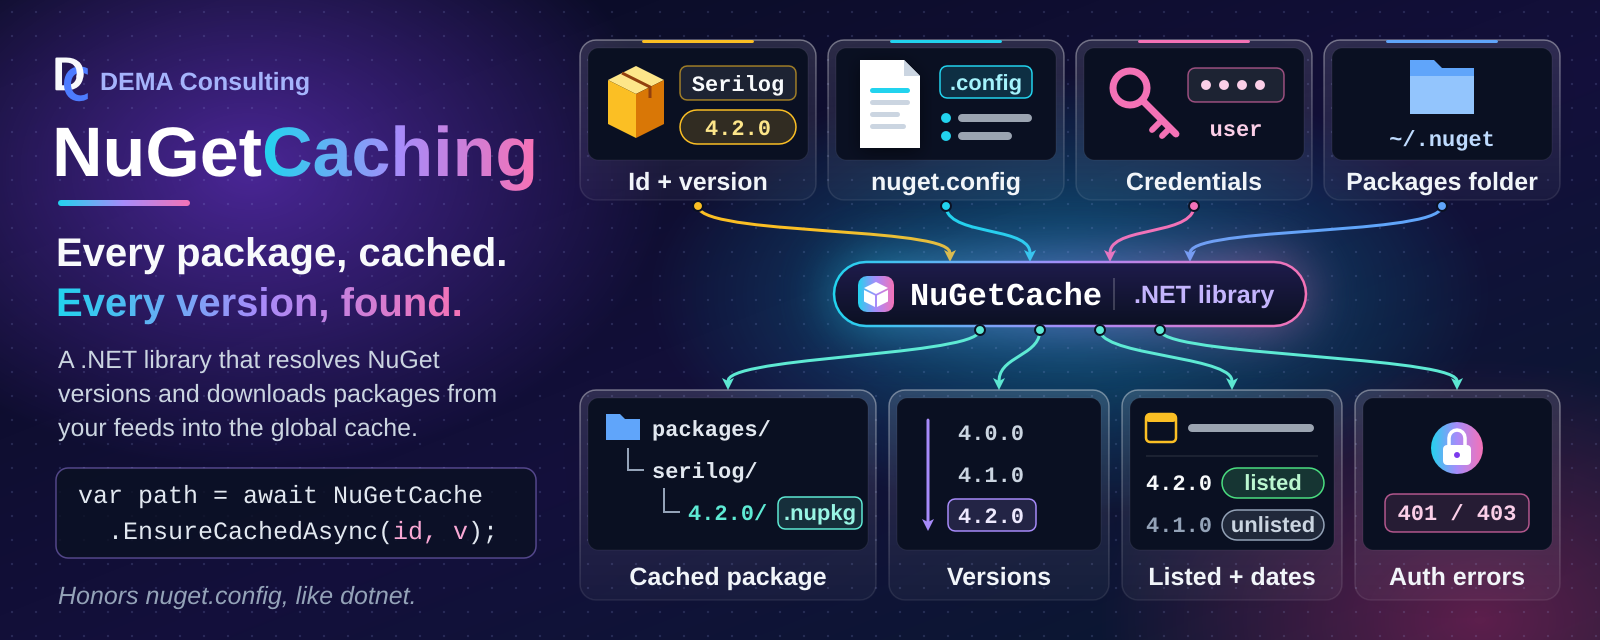
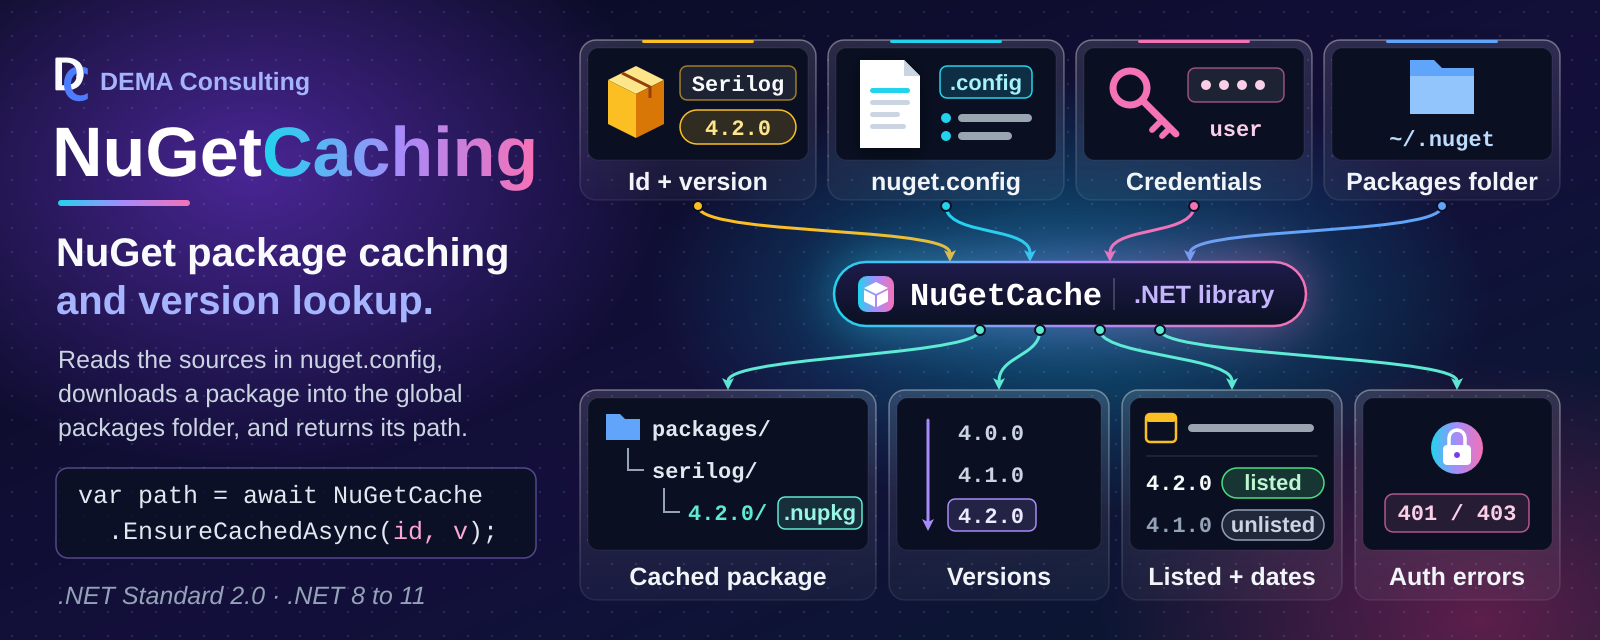
Sync agents/template and calm the README hero (#106)
* Sync shared agents, skills, and standards from Agents main

Copy .github/agents, skills, and standards from Agents origin/main (#60, #62, #64)
and apply the AGENTS.md changes: fix.ps1/lint.ps1 are no longer protected, add the
Project Scripts section, and add the project-tagline field.

* Sync template: yamlfix comment rule and script customization headers

- .yamlfix.toml: comments_require_starting_space = false (template #61)
- build.ps1, lint.ps1, fix.ps1: CUSTOMIZATION header replaces the old
  MODIFICATION POLICY text (template #63); comment-only change

* Calm the README hero and make it the H1

Replace the slogan tagline with a plain statement, make the body factual, and
use the targets as the footnote. The hero image is now the README H1, with the
badges directly under it (template #66).

* Record the legacy SysML2 package layout as a standards exception

* README: keep the hero H1 alt text to the name and tagline

The hero image is the H1, so its alt text is the page title for screen readers; the details are in the README text below.

---------

diff --git a/.github/standards/sysml2-modeling.md b/.github/standards/sysml2-modeling.md
@@ -31,15 +31,15 @@ docs/sysml2/
 ├── common/
 │   └── software-items.sysml           # shared SoftwareItemMetadata::SoftwareInfo metadata def
 ├── model/
-│   ├── {system-name}.sysml            # system-level part def only (no subsystems/units inline)
+│   ├── {system-name}.sysml            # package {SystemName}; system-level part def only (no subsystems/units inline)
 │   ├── {system-name}/
-│   │   ├── {subsystem-name}.sysml     # subsystem part def; nests further for sub-subsystems
+│   │   ├── {subsystem-name}.sysml     # package {SystemName}_{SubsystemName}Subsystem; nests further for sub-subsystems
 │   │   └── {subsystem-name}/
-│   │       └── {unit-name}.sysml      # one file per unit
-│   ├── ots.sysml                      # OTS dependency parts (optional; if OTS items exist)
-│   └── shared.sysml                   # Shared Package parts (optional; if Shared Packages exist)
+│   │       └── {unit-name}.sysml      # package {SystemName}_{UnitName}; one file per unit
+│   ├── ots.sysml                      # package OtsDependencies: OTS parts (optional; if OTS items exist)
+│   └── shared.sysml                   # package SharedPackages: Shared Package parts (optional; if Shared Packages exist)
 └── views/
-    └── design-views.sysml             # named view usages rendered for the design document
+    └── design-views.sysml             # package {RepoName}DesignViews; named view usages rendered for the design document
 ```
 
 `docs/sysml2/common/software-items.sysml` defines the `SoftwareItemMetadata::SoftwareInfo`
@@ -62,14 +62,42 @@ so no single alias name would generalize. Agents discover the system(s) present 
 `docs/sysml2/**/*.sysml`, not by assuming a fixed name.
 
 Always pass the full set of `.sysml` files (or an equivalent glob) to every `sysml2tools`
-invocation — the model spans multiple files and cross-references between them; files sharing
-the same `package Name { ... }` merge into one namespace automatically with no `import`
-required, as long as all files are passed together. As of `sysml2tools` 0.1.0-beta.5,
+invocation — the model spans multiple files and cross-references between them, and a
+reference only resolves when the file declaring its target is loaded (see Package Structure
+below for how files reference each other). As of `sysml2tools` 0.1.0-beta.5,
 `lint` and `render` both expand `*`/`**` glob patterns internally (recursing correctly into
 subdirectories), so pass a single **quoted** glob string (e.g. `'docs/sysml2/**/*.sysml'`)
 and let the tool resolve it — do not rely on the shell to expand it, and do not quote-strip
 the pattern before it reaches the tool. Quoting keeps the behavior identical across
 PowerShell and bash, since neither shell needs to (or reliably does) expand `**` itself.
+
+## Package Structure
+
+SysML v2 has no package merging: each file is its own root namespace, and two root packages
+with the same name are duplicate members of the global namespace (the OMG Pilot
+Implementation reports "Duplicate of other owned member name" for each, and references across
+the halves do not resolve). A model that only loads because a tool is lenient is not portable,
+so:
+
+- Each `.sysml` file declares **exactly one uniquely named package**, and a package is never
+  declared (or "reopened") in more than one file.
+- Name each package from its place in the hierarchy, joined with an underscore:
+  `{SystemName}` for the system file, `{SystemName}_{SubsystemName}Subsystem` for a subsystem
+  (including a nested sub-subsystem, which is not prefixed with its parent subsystem), and
+  `{SystemName}_{UnitName}` for a unit. The system prefix keeps names unique across systems.
+  The shared files use `OtsDependencies` and `SharedPackages`, and the single views file uses
+  one repository-level package, `{RepoName}DesignViews` (not one per system).
+- Package names must be unique **repository-wide**. The short forms above are the default;
+  when one would collide (two `Storage` subsystems in different branches, or two units named
+  `Cache` in different subsystems), qualify it with the owning subsystem path, for example
+  `{SystemName}_{SubsystemName}_{UnitName}` (`Acme_Ingest_Cache` and `Acme_Query_Cache`).
+- Reference other files with an explicit `private import {PackageName}::*;` (a system or
+  subsystem file imports the package of each direct member so its `part` usages resolve; every
+  file that applies `SoftwareInfo` imports `SoftwareItemMetadata::*`).
+- Where an import would form a cycle (for example a unit that depends on a package that
+  already imports it), or for a one-off reference into another system, use the qualified name
+  instead, e.g. `dependency {UnitName} to {SystemName}_{OtherUnit}::{OtherUnit};`.
+  Import cycles raise a lint warning; qualified references do not.
 
 ## Model Content
 
@@ -174,11 +202,13 @@ Views control what gets rendered into diagrams for the design document. Use name
 **usages** (not `view def` **definitions**) — `expose` is only valid inside a usage:
 
 ```sysml
-package {SystemName} {
+package {RepoName}DesignViews {
     private import StandardViewDefinitions::*;
+    private import {SystemName}::*;
+    private import {SystemName}_{SubsystemName}Subsystem::*;
 
     view SoftwareStructureView : InterconnectionView {
-        expose {SystemName}::**;     // all members, recursively: system + subsystems + units
+        expose {SystemName}::{SystemName}System::**;  // system part def, recursively: subsystems + units
     }
 
     view {SystemName}View {
@@ -186,10 +216,12 @@ package {SystemName} {
     }
 
     view {SubsystemName}View {
-        expose {SubsystemName};      // one subsystem def only
+        expose {SubsystemName}Subsystem;      // one subsystem def only
     }
 }
 ```
+
+Views import (or qualify) every package whose members they expose, like any other file.
 
 Type `SoftwareStructureView` by a standard view definition from the SysML v2 Views library
 (`GeneralView`, `InterconnectionView`, ...; requires `sysml2tools` 0.3.0-beta.3+). The view
@@ -223,25 +255,27 @@ There is no dedicated `DependencyView`/`{SubsystemName}DependencyView` diagram c
 above), not rendered.
 
 When a repository has multiple systems, type `SoftwareStructureView` by `GeneralView`,
-expose each system package's members, and filter out documentation so the overview stays
-readable — the general view draws one package frame per system, while an interconnection
-view places all systems in a single row:
+expose each system's part def (and each subsystem's, by qualified name), and filter out
+documentation so the overview stays readable — the general view draws one package frame per
+system, while an interconnection view places all systems in a single row:
 
 ```sysml
 package {RepoName}DesignViews {
     private import StandardViewDefinitions::*;
 
     view SoftwareStructureView : GeneralView {
-        expose {SystemNameA}::**;
-        expose {SystemNameB}::**;
-        filter not @SysML::Documentation;
+        expose {SystemNameA}::{SystemNameA}System;
+        expose {SystemNameA}_{SubsystemName}Subsystem::{SubsystemName}Subsystem;
+        expose {SystemNameB}::{SystemNameB}System;
+        filter not (@SysML::Documentation);
     }
 }
 ```
 
 Documentation (`doc`) is exposed with its owner and drawn as a `doc` compartment unless a
-view filters it out; use `filter not @SysML::Documentation;` wherever doc text would clutter
-a diagram.
+view filters it out; use `filter not (@SysML::Documentation);` wherever doc text would clutter
+a diagram. The parentheses are required: the SysML v2 grammar does not accept the unparenthesized
+`filter not @SysML::Documentation;`.
 
 ## Diagram Embedding
 
@@ -313,6 +347,9 @@ sync.
   `sourceFiles`; the purpose statement appears only in the `doc` comment, never in `SoftwareInfo`
 - [ ] `docs/sysml2/views/design-views.sysml` uses `view Name { expose ...; }` usages, not
   `view def` definitions
+- [ ] Each `.sysml` file declares exactly one uniquely named package (never the same package
+  in two files), named per Package Structure, and references other files through
+  `private import` or qualified names (qualified where an import would form a cycle)
 - [ ] View names follow the `SoftwareStructureView` / `{SystemName}View` /
   `{SubsystemName}View` convention (no dedicated `DependencyView`)
 - [ ] Each Unit's real collaborators are captured as `dependency A to B;` statements, and each

diff --git a/.github/skills/sysml2tools-query/SKILL.md b/.github/skills/sysml2tools-query/SKILL.md
@@ -21,11 +21,15 @@ dotnet tool restore
 ## Model files
 
 - `docs/sysml2/model/{system-name}.sysml` — system-level `part def` only (no subsystems/units
-  inline). A repository may contain more than one system.
+  inline), in package `{SystemName}`. A repository may contain more than one system.
 - `docs/sysml2/model/{system-name}/{subsystem-name}.sysml` and
   `docs/sysml2/model/{system-name}/{subsystem-name}/{unit-name}.sysml` — one file per
   Subsystem/Unit, nested to mirror the same folder depth as that item's companion
-  `docs/design/`, `docs/reqstream/`, and `docs/verification/` files.
+  `docs/design/`, `docs/reqstream/`, and `docs/verification/` files. Each declares its own
+  uniquely named package; by default `{SystemName}_{SubsystemName}Subsystem` or
+  `{SystemName}_{UnitName}`, qualified with the subsystem path
+  (`{SystemName}_{SubsystemName}_{UnitName}`) when the short name would collide. An element's
+  qualified name is e.g. `{SystemName}_{UnitName}::{UnitName}`.
 - `docs/sysml2/model/ots.sysml` — off-the-shelf (OTS) dependency parts (present when OTS items
   exist).
 - `docs/sysml2/model/shared.sysml` — Shared Package parts (present when Shared Package items
@@ -35,9 +39,10 @@ dotnet tool restore
   useful to see how diagrams are scoped.
 
 Always pass all `.sysml` files (or a glob covering them) to every `sysml2tools`
-invocation — the model spans multiple files and cross-references between them; files that
-reopen the same `package Name { ... }` from different files merge into one namespace
-automatically, no `import` required. As of `sysml2tools` 0.1.0-beta.5, every subcommand
+invocation — the model spans multiple files and cross-references between them (each file
+declares one uniquely named package and references others through `import` or qualified
+names; same-named packages in different files are not merged), so every file a reference
+points at must be loaded. As of `sysml2tools` 0.1.0-beta.5, every subcommand
 (`lint`, `render`, `query`) expands `*`/`**` glob patterns internally and recurses
 correctly — pass a single **quoted** glob string and let the tool resolve it, rather than
 relying on the shell (quoting works identically in both PowerShell and bash):
@@ -57,7 +62,7 @@ summary line, so one query gets you every artifact location for that item withou
 the source tree:
 
 ```pwsh
-dotnet sysml2tools query describe -e {SystemName}::{UnitName} 'docs/sysml2/**/*.sysml'
+dotnet sysml2tools query describe -e {SystemName}_{UnitName}::{UnitName} 'docs/sysml2/**/*.sysml'
 ```
 
 ```text

diff --git a/AGENTS.md b/AGENTS.md
@@ -2,6 +2,7 @@
 
 - **project-name**: DemaConsulting NuGet Caching
 - **organization**: DEMA Consulting
+- **project-tagline**: Local NuGet package caching for .NET
 - **description**: A library for caching NuGet packages on the local PC
 - **languages**: C#
 - **technologies**: .NET (netstandard2.0, net8.0, net9.0, net10.0, net11.0), NuGet.Protocol, NuGet.Configuration
@@ -157,10 +158,31 @@ requires it and the modification preserves the documented design intent:
 
 - `.reviewmark.yaml`, `.textlint.yaml`, `.editorconfig`
 - `.lintmark.yaml`, `.yamllint.yaml`
-- `requirements.yaml`, `fix.ps1`, `lint.ps1`
+- `requirements.yaml`
+
+# Project Scripts
+
+`build.ps1`, `lint.ps1`, and `fix.ps1` belong to the project: extend them as it grows. Add project-specific
+steps, update tool versions, and add optional parameters that focus a run (for example one library in a
+multi-library repository, or headless tests without GUI automation). Two rules keep them trustworthy:
+
+- Run with no arguments, each script still does its full job (CI and the agents rely on that); slow or
+  environment-dependent test tiers may be opt-in switches of `build.ps1`.
+- Never remove or weaken a check to make lint or tests pass.
 
 # Continuous Compliance Overview
 
 This repository follows the [Continuous Compliance](https://github.com/demaconsulting/ContinuousCompliance)
 approach. Tools: **ReqStream** (requirements traceability), **ReviewMark** (file review enforcement),
 **BuildMark** (tool versions), **VersionMark** (version tracking).
+
+# Repository-Specific Standards Exceptions
+
+## SysML2 package structure (legacy layout, migration pending)
+
+The model under `docs/sysml2/` still uses the earlier layout: package `NuGetCaching` is reopened in 7 model files
+(`model/nuget-caching.sysml` and the 6 unit files under `model/nuget-caching/`) and in `views/design-views.sysml`,
+so there are no `NuGetCaching_{Unit}` packages and no `NuGetCachingDesignViews` package (`OtsDependencies` and
+`SoftwareItemMetadata` already match). The Package Structure rules in `sysml2-modeling.md` and the matching
+qualified-name examples in the `sysml2tools-query` skill apply once the model is migrated in a dedicated PR; until
+then, query and extend the model using the existing package names and do not partially restructure it.

diff --git a/README.md b/README.md
@@ -1,7 +1,4 @@
-# DemaConsulting NuGet Caching
-
-<!-- IMPORTANT: All links in this file must be absolute URLs.
-     This file is distributed in packages and relative links will not resolve. -->
+# ![NuGetCaching: NuGet package caching and version lookup][hero]
 
 [![GitHub forks][badge-forks]][link-forks]
 [![GitHub stars][badge-stars]][link-stars]
@@ -12,7 +9,8 @@
 [![Security][badge-security]][link-security]
 [![NuGet][badge-nuget]][link-nuget]
 
-![NuGetCaching banner: the NuGetCaching name with the tagline 'Every package, cached. Every version, found.' and the C# call 'var path = await NuGetCache.EnsureCachedAsync(id, v);'. A package id and version, nuget.config package sources, feed credentials, and the global packages folder flow on curved arrows into the NuGetCache .NET library, and arrows lead out to what it produces: the package cached and extracted at its path in the global packages folder, the list of available versions, their listed state and publication dates, and authentication failures classified as 401 or 403][hero]
+<!-- IMPORTANT: All links in this file must be absolute URLs.
+     This file is distributed in packages and relative links will not resolve. -->
 
 DEMA Consulting library for caching NuGet packages on the local global packages cache and
 discovering the available versions of a package.

diff --git a/.github/agents/orchestrator.agent.md b/.github/agents/orchestrator.agent.md
@@ -48,3 +48,16 @@ briefly, what you loaded.
   let the user answer in their own words. Do not batch decisions into structured question forms (such as an
   `ask_user` tool); they strip away the context the user needs to decide and turn the session into a
   questionnaire.
+
+# Pull Requests (MANDATORY)
+
+Aim for pull requests that each merge one complete, useful change that could be cherry-picked on its own.
+
+- Before starting work that could span more than one pull request, propose the grouping and let the user
+  decide. The user may split it, or combine several small requests into one pull request.
+- When splitting, split by behavior, not by layer or file type: each part carries its own code, tests,
+  requirements, and docs, builds and passes alone, and leaves no stubs or dead code for a later part.
+- Deliver parts in order: start the next part from main only after the previous one merges.
+- Review fixes, lint fixes, and follow-ups go into the open pull request they belong to, not a new one.
+- Sub-agents work on the agreed branch and do not open pull requests; you decide when it is complete.
+- Keep mechanical churn (formatting, renames, generated files) in its own commit so reviewers can skip it.

diff --git a/.github/agents/planning.agent.md b/.github/agents/planning.agent.md
@@ -52,10 +52,13 @@ Repeat up to 2 more times, stopping when the plan is stable.
 
 List up to 5 risks with a brief mitigation for each.
 
-## Step 6 — Feasibility Assessment
+## Step 6 — Feasibility and Delivery
 
 State whether this can be implemented in a single development pass and any
-preconditions that affect feasibility.
+preconditions that affect feasibility. Propose how the work groups into pull
+requests: one complete, useful change per pull request where possible; if it
+should be split, list ordered parts that are split by behavior (not by layer or
+file type) and each build, pass, and deliver something on their own.
 
 ## Step 7 — Recommendation
 
@@ -108,9 +111,12 @@ Then respond to the caller with ONLY the lean structured summary below.
 
 1. **[severity]** {risk} — {mitigation}
 
-## Feasibility Assessment
+## Feasibility and Delivery
 
 {Single-pass or not, and why. Any preconditions.}
+
+{Proposed pull-request grouping: one pull request, or ordered parts split by behavior,
+each with what it delivers on its own.}
 
 ## Unknowns
 
